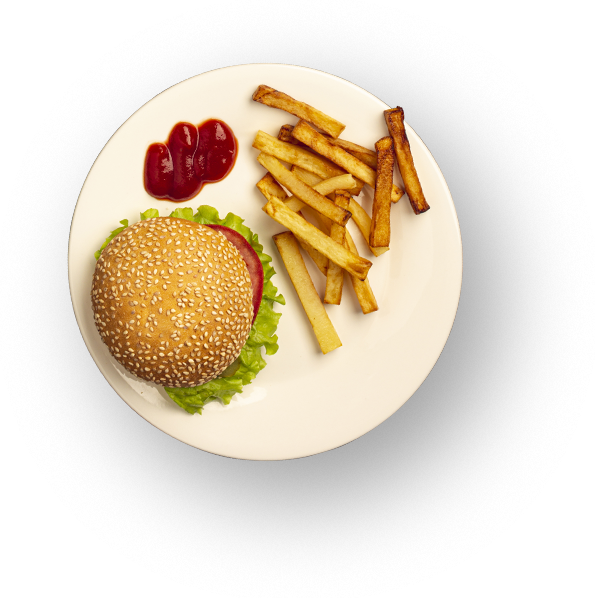
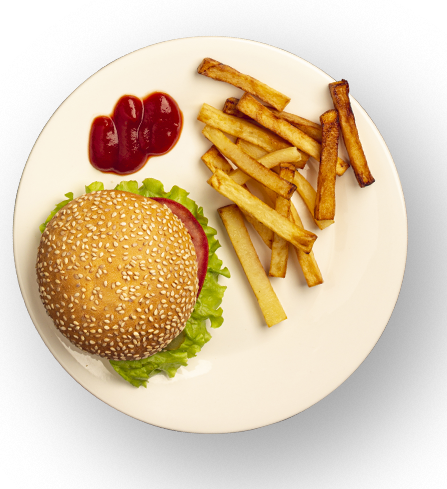
burger-completed

diff --git a/index.html b/index.html
@@ -62,7 +62,7 @@
                 <div class="slogan-sub">WEEK</div>
             </div>
             <div class="col-md-6">
-                <img src="assets/Glow.png" class="glow d-inline-block ">
+                <img src="assets/white-glow.png" class="glow d-inline-block ">
                 <img src="assets/French Fries.png" class="fingerchips d-inline-block ">
                 <img src="assets/Drinks.png" class="drinks d-inline-block">
                 <img src="assets/Burger Image (1).png" class="burgerimage d-inline-block ">

diff --git a/css/style.css b/css/style.css
@@ -84,10 +84,12 @@ padding-top: 4px;
  }
 
  .glow {
-     top: 4px;
-     left: 814px;
-     position: absolute;
-     height: 696px;
+    width: 500px;
+    top: 12px;
+    left: 885px;
+    position: absolute;
+    height: 696px;
+    opacity: 0.9;
  }
 .burger-shadow{
     position: absolute;
